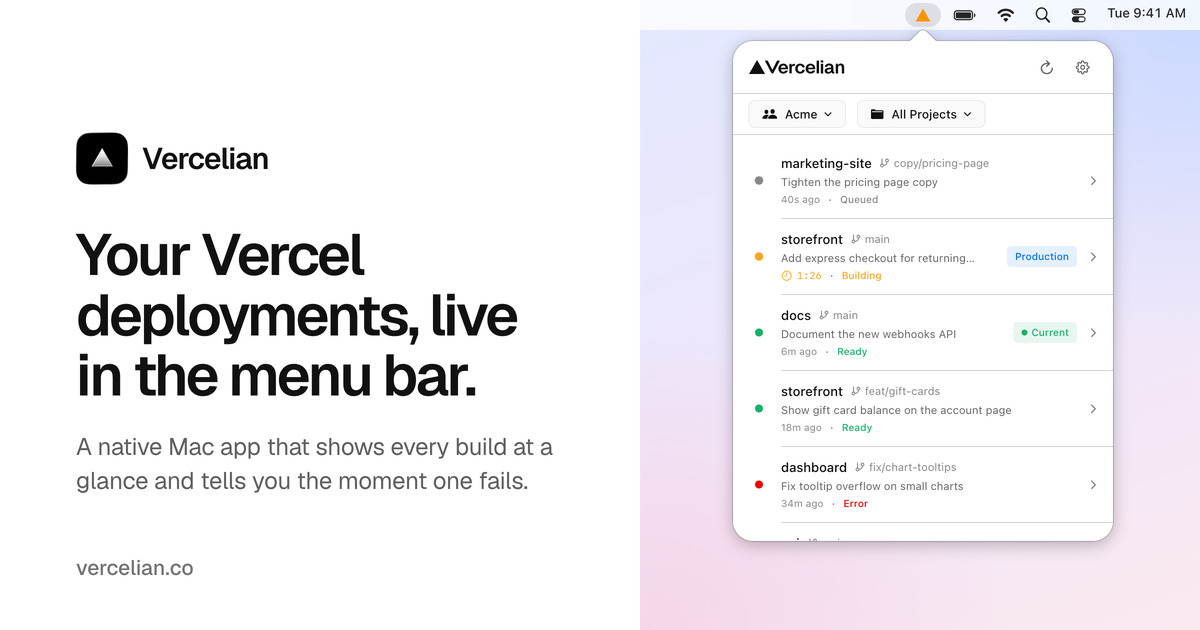
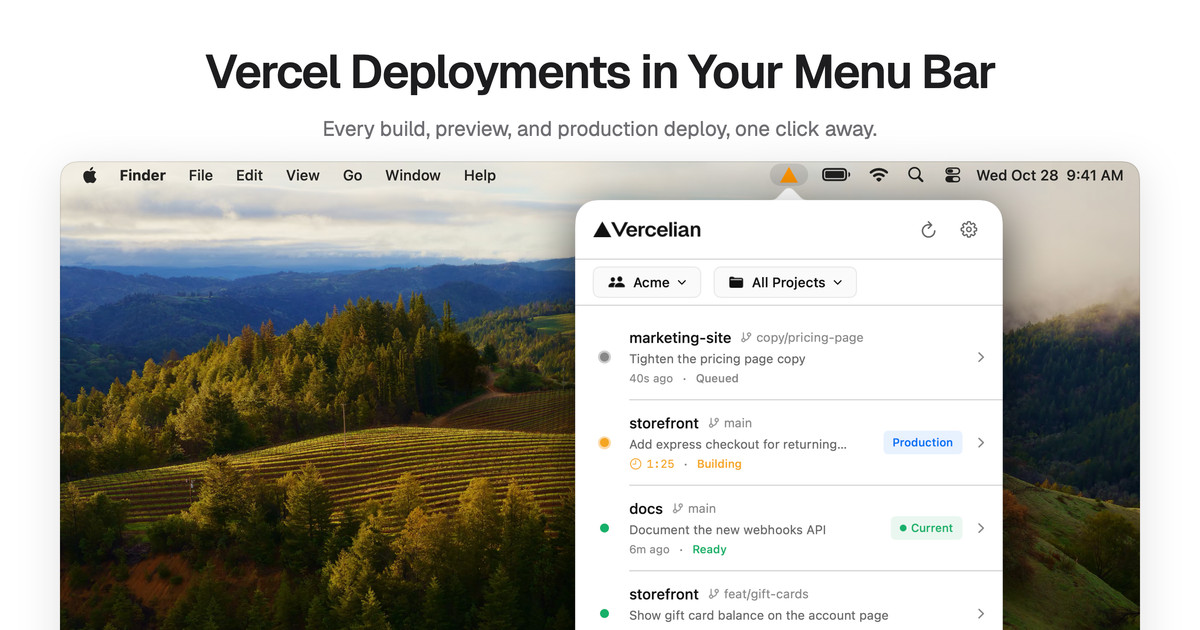
Use the App Store screenshot's layout for the OG image
The card now follows the first App Store screenshot: its headline and
subtitle above a Mac menu bar with the popover open. It's that
screenshot scaled to the card's width and cropped at the bottom, served
at ?v=4 so services that cached the old card fetch it again.

diff --git a/website/public/index.html b/website/public/index.html
@@ -16,10 +16,10 @@
   <meta property="og:url" content="https://vercelian.co/">
   <meta property="og:title" content="Vercelian · Vercel deployments in your Mac menu bar">
   <meta property="og:description" content="A native Mac app that shows your Vercel deployments live in the menu bar and alerts you the moment a build fails.">
-  <meta property="og:image" content="https://vercelian.co/assets/og.jpg?v=3">
+  <meta property="og:image" content="https://vercelian.co/assets/og.jpg?v=4">
   <meta property="og:image:width" content="1200">
   <meta property="og:image:height" content="630">
-  <meta property="og:image:alt" content="Vercelian's popover under the macOS menu bar, listing queued, building, ready, and failed deployments, beside the headline “Your Vercel deployments, live in the menu bar.”">
+  <meta property="og:image:alt" content="Vercelian's popover open under the macOS menu bar, listing queued, building, and ready deployments, beneath the headline “Vercel Deployments in Your Menu Bar”">
   <meta name="twitter:card" content="summary_large_image">
 
   <meta name="theme-color" content="#ffffff" media="(prefers-color-scheme: light)">

diff --git a/website/public/privacy.html b/website/public/privacy.html
@@ -16,10 +16,10 @@
   <meta property="og:url" content="https://vercelian.co/privacy">
   <meta property="og:title" content="Privacy Policy · Vercelian">
   <meta property="og:description" content="What Vercelian keeps on your Mac and sends to Vercel. In short: it collects nothing.">
-  <meta property="og:image" content="https://vercelian.co/assets/og.jpg?v=3">
+  <meta property="og:image" content="https://vercelian.co/assets/og.jpg?v=4">
   <meta property="og:image:width" content="1200">
   <meta property="og:image:height" content="630">
-  <meta property="og:image:alt" content="Vercelian's popover under the macOS menu bar, listing queued, building, ready, and failed deployments, beside the headline “Your Vercel deployments, live in the menu bar.”">
+  <meta property="og:image:alt" content="Vercelian's popover open under the macOS menu bar, listing queued, building, and ready deployments, beneath the headline “Vercel Deployments in Your Menu Bar”">
   <meta name="twitter:card" content="summary_large_image">
 
   <meta name="theme-color" content="#ffffff" media="(prefers-color-scheme: light)">
